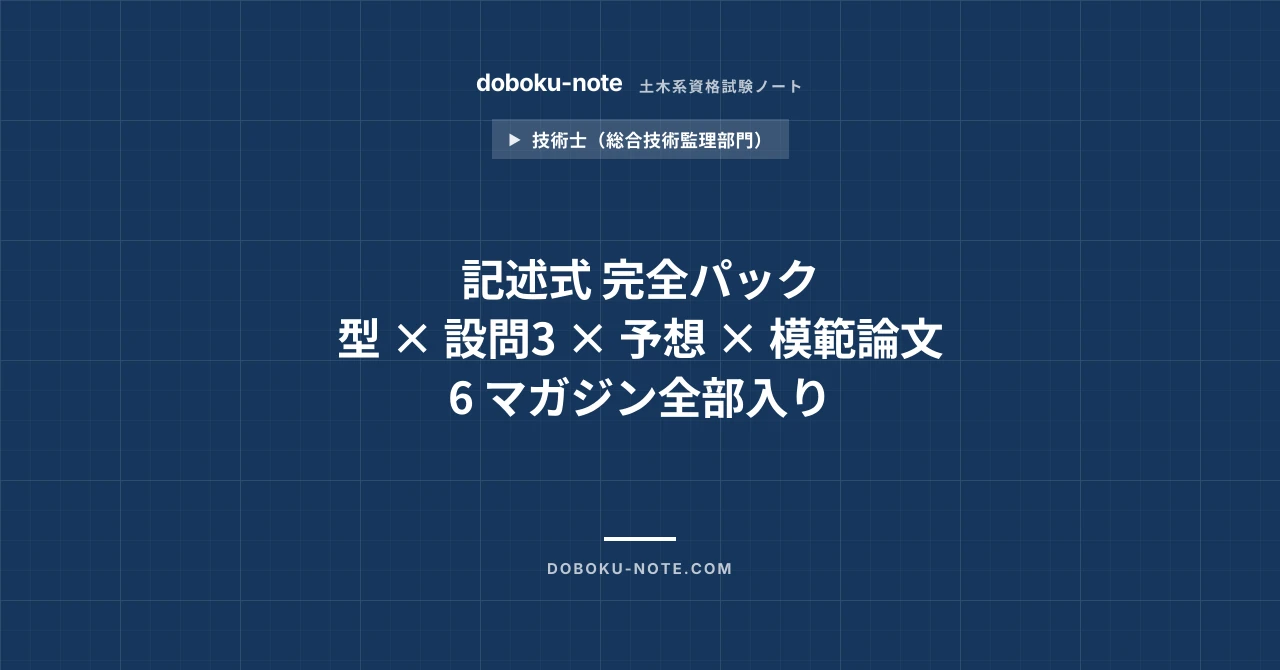
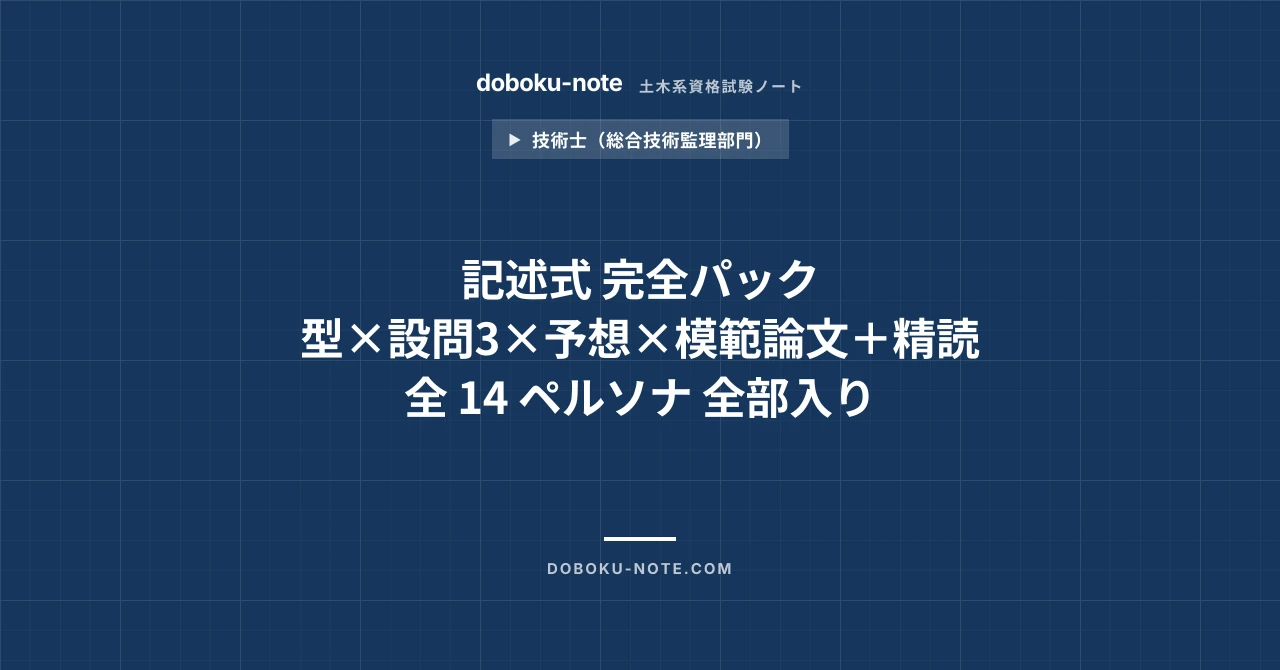
feat(note/総監): 下段コアパックをサイト配線＋カバー生成＋ロードマップ本文を2段ラダーへ更新
完全パック¥14,800/コアパック¥5,480 の2段ラダーをサイト・note側ハブに反映。

- magazine-placement.ts: essay-core-pack を NEW_MAGAZINES＋戦略ハブ inline（完全パックの
  次点）＋カテゴリhub(pe-comprehensive-management) に配線。下段がサイトCTAに出るように。
- generate-magazine-covers.mjs: essay-core-pack カバー追加、完全パックの文言を
  「全14ペルソナ＋精読 全部入り」へ是正。両カバー再生成（site webp/png＋note _cover.png）。
- 総監R08合格ロードマップ/article.md: 完全パックを¥14,800/全14ペルソナ＋精読/単品合計
  ¥44,640へ更新、下段コアパック¥5,480を新設、設問3バンク¥2,480→¥2,980是正、目的別ガイド更新。
  ※本文(repo)更新。note上の実記事(n3d73729e6cc7)再公開は別途（link card多数で半手動）。

単品合計アンカーは設問3を¥2,480計上の控えめ基準で全所統一（実¥2,980なら+¥500・過小側で安全）。

Changed region(s): [[0.2188, 0.4776, 0.7812, 0.5373], [0.3125, 0.5672, 0.6875, 0.6269]]

diff --git a/src/lib/magazine-placement.ts b/src/lib/magazine-placement.ts
@@ -130,6 +130,7 @@ function matchPeConstructionEssay(slug: string): MagazineId | null {
  */
 const NEW_MAGAZINES = {
   completePack: 'essay-complete-pack' as const,
+  corePack: 'essay-core-pack' as const,
   tradeoff5kanri: 'tradeoff-5kanri' as const,
   setsumon3Bank: 'setsumon3-policy-bank' as const,
   r8Forecast: 'r8-essay-forecast' as const,
@@ -147,17 +148,18 @@ const NEW_MAGAZINES = {
 export function resolvePlacement(slug: string, docGroup: DocGroupKey): ResolvedPlacement {
   // 1. 完全一致: 記述式戦略ハブは精読ガイド + 新規プレミアム + 全 3 ペルソナ模範論文を提示 (強 CTA)
   if (slug === 'pe-comprehensive-management-essay-exam-strategy') {
-    // パイプライン順 (完全パック → 型 → 設問3 → 予想 → 模範論文 → 精読基礎)。
-    // 完全パックを inline 筆頭の強 CTA に。sidebar は sidebarImageUrl を持つ
-    // 精読ガイドを維持（完全パックは sidebarImageUrl 未設定のため画像カードが出ない）。
+    // パイプライン順 (完全パック → コアパック → 型 → 設問3 → 予想 → 模範論文 → 精読基礎)。
+    // 上段=完全パック¥14,800 を筆頭の強 CTA、下段=コアパック¥5,480 を次点（2段ラダー）。
+    // sidebar は sidebarImageUrl を持つ精読ガイドを維持（パックは sidebarImageUrl 未設定）。
     return {
       inline: [
         slot(NEW_MAGAZINES.completePack, slug, 'inline-1'),
-        slot(NEW_MAGAZINES.tradeoff5kanri, slug, 'inline-2'),
-        slot(NEW_MAGAZINES.setsumon3Bank, slug, 'inline-3'),
-        slot(NEW_MAGAZINES.r8Forecast, slug, 'inline-4'),
-        ...ALL_PERSONA_MAGAZINES.map((m, i) => slot(m, slug, `inline-${i + 5}`)),
-        slot('tankan-reading-guide', slug, 'inline-8'),
+        slot(NEW_MAGAZINES.corePack, slug, 'inline-2'),
+        slot(NEW_MAGAZINES.tradeoff5kanri, slug, 'inline-3'),
+        slot(NEW_MAGAZINES.setsumon3Bank, slug, 'inline-4'),
+        slot(NEW_MAGAZINES.r8Forecast, slug, 'inline-5'),
+        ...ALL_PERSONA_MAGAZINES.map((m, i) => slot(m, slug, `inline-${i + 6}`)),
+        slot('tankan-reading-guide', slug, 'inline-tankan'),
       ],
       sidebar: [
         slot('tankan-reading-guide', slug, 'sidebar-1'),
@@ -481,7 +483,7 @@ export function resolvePlacement(slug: string, docGroup: DocGroupKey): ResolvedP
  * ながら収益導線ゼロだったため、カテゴリ hub にも CTA を張る。
  */
 const CATEGORY_MAGAZINES: Partial<Record<string, readonly MagazineId[]>> = {
-  "pe-comprehensive-management": ["essay-complete-pack", "tankan-reading-guide"],
+  "pe-comprehensive-management": ["essay-complete-pack", "essay-core-pack", "tankan-reading-guide"],
   "civil-construction-1": ["civil-1-experience-essay", "civil-1-pastexam-essay"],
   "civil-construction-2": ["civil-2-experience-essay", "civil-2-pastexam-essay"],
   "concrete-chief-engineer": ["cce-essay-magazine"],

diff --git a/docs/note/技術士総監/総監R08合格ロードマップ/article.md b/docs/note/技術士総監/総監R08合格ロードマップ/article.md
@@ -79,15 +79,23 @@ https://note.com/dobokunote/n/n8e92e4673a99
 
 工程を一気にそろえたい方には、以下の全部入りバンドルが最もお得です。
 
-### ⭐ 全部入り｜総監記述式 完全パック（型 × 設問3 × 予想 × 模範論文）
+### ⭐ 全部入り｜総監記述式 完全パック（型 × 設問3 × 予想 × 全14ペルソナ模範論文 ＋ 精読）
 
-①〜④ のパイプラインを 1 パックで完結。5 管理クロス・トレードオフ（型）＋国家施策バンク（設問3の弾薬）＋R8 予想問題集（予想演習）＋ペルソナ別模範論文（フル実演）をまとめて収録しています。
+①〜④ のパイプラインに精読ガイドまで加えた全部入り。5 管理クロス・トレードオフ（型）＋国家施策バンク（設問3の弾薬）＋R8 予想問題集（予想演習）＋全 14 ペルソナのフル模範論文（フル実演）＋5 管理テキスト精読ガイドをまとめて収録しています。自分の専門分野が必ず入る網羅保証。
 
-単品合計 ¥14,380 相当。直前期にまとめて仕上げたい方向けの決定版バンドルです。
+単品合計 ¥44,640 相当。直前期にまとめて仕上げたい方向けの決定版バンドルです。
 
-**¥7,980** （試験直前限定 ¥5,980）
+**¥14,800**
 
 https://note.com/dobokunote/m/m171222175fac
+
+### 記述式 コアパック｜型 × 設問3 × R8予想（ペルソナ非依存3本）
+
+「全部はいらない、まず記述式の土台だけ」という方へ。誰が受けても効く横断3教材（型・設問3・R8予想）だけを束ねた最小セット。自分の分野の模範論文は単品で1つ足すだけ。
+
+単品合計 ¥7,940 相当を ¥5,480（約31%OFF）。
+
+https://note.com/dobokunote/m/m6e7de5e4ea3d
 
 ---
 
@@ -109,7 +117,7 @@ https://note.com/dobokunote/m/m921fbe060575
 
 各案は「課題と施策／有効性と実現性／重大な障害と克服策（トレードオフ明示）」を約 600 字＝答案用紙 1 枚相当で構成（計 68 案）。どのテーマが出ても引き出せる施策の弾薬庫です。
 
-**¥2,480**
+**¥2,980**
 
 https://note.com/dobokunote/m/m91516dfc27ac
 
@@ -210,16 +218,19 @@ https://note.com/dobokunote/m/m607bf095b02a
 読み手の状況別に、最適な入口をご案内します。
 
 - **試験まで時間がない方**（直前期・工程を一気にそろえたい）
-  → ⭐ 完全パック ¥7,980（試験直前限定 ¥5,980）で①〜④をまとめて
+  → ⭐ 完全パック ¥14,800 で①〜④＋精読まで全部入り（全14ペルソナ収録・自分の分野が必ず入る）
+
+- **記述式の土台だけ先に固めたい方**（自分の分野は単品で足す）
+  → 記述式コアパック ¥5,480（型＋設問3＋R8の横断3本）＋ 自分のペルソナの ④ 過去問マガジン ¥2,480
 
 - **足りない工程だけ単品で揃えたい方**
-  → ② 国家施策バンク ¥2,480 ＋ ③ R8 予想問題集 ¥3,480 ＋ 自分のペルソナの ④ 過去問マガジン ¥2,480
+  → ② 国家施策バンク ¥2,980 ＋ ③ R8 予想問題集 ¥3,480 ＋ 自分のペルソナの ④ 過去問マガジン ¥2,480
 
 - **答案の「型」がまだ固まっていない方**
   → ① 5 管理クロス・トレードオフ ¥1,980（衝突パターンと解決フレームの引き出しを作る）
 
 - **設問(3)の将来課題・国家施策が書けない方**
-  → ② 国家施策バンク ¥2,480（11 テーマ × 68 案の弾薬庫）
+  → ② 国家施策バンク ¥2,980（11 テーマ × 68 案の弾薬庫）
 
 - **体系的に過去問から学びたい方**
   → ④ ペルソナ別模範論文マガジン（全14ペルソナ・立場別、各¥2,480）
